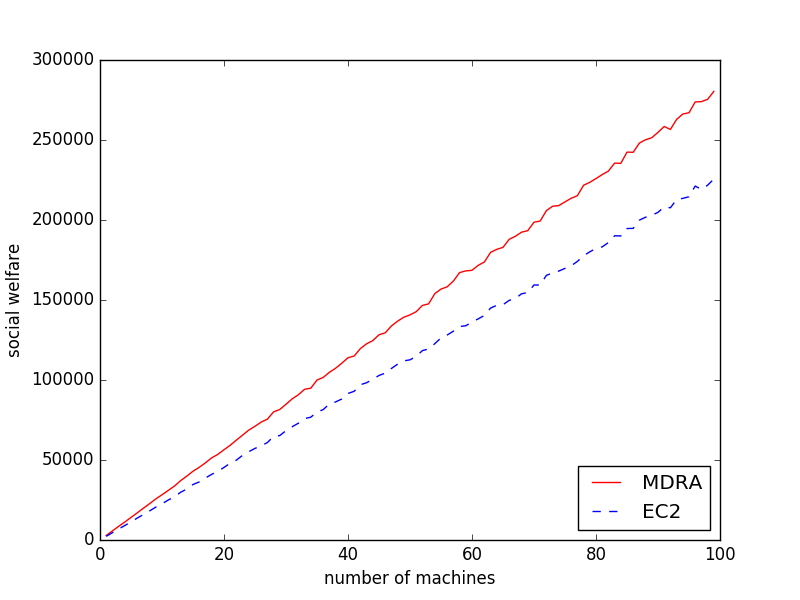
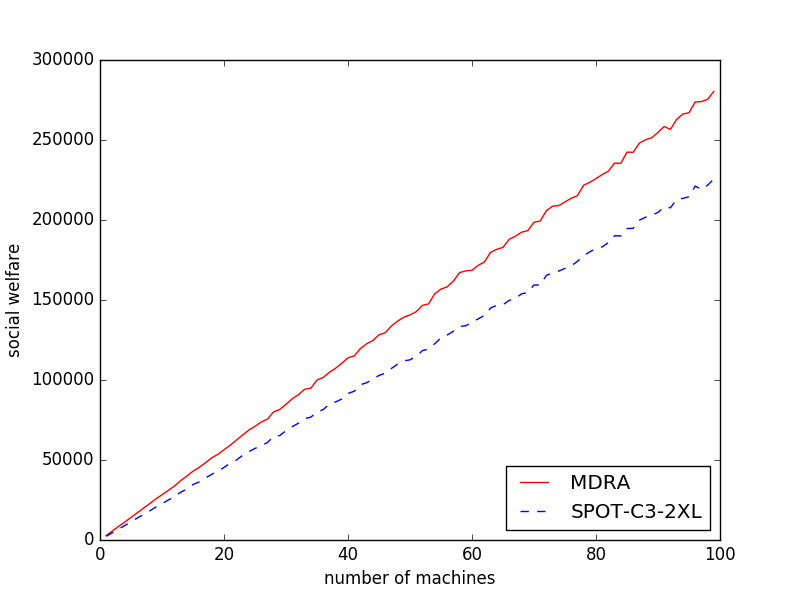
add pics

Changed region(s): [[0.7188, 0.78, 0.875, 0.87], [0.625, 0.75, 0.7188, 0.9]]

diff --git a/src/test_dscheduler.py b/src/test_dscheduler.py
@@ -628,7 +628,7 @@ def draw_ec2(num, corr):
 
     plt.clf()
     plt.plot(range(1,num), sw1, 'k-', label='MDRA', color='red')
-    plt.plot(range(1,num), sw2, 'k--', label='EC2', color='blue')
+    plt.plot(range(1,num), sw2, 'k--', label='SPOT-C3-2XL', color='blue')
     plt.xlabel('number of machines')
     plt.ylabel('social welfare')
     plt.legend(loc ='lower right')
@@ -671,6 +671,7 @@ def draw_ec2_all(num):
     plt.xlabel('number of machines')
     plt.ylabel('Ratio of Social Welfare of MDRA to EC2')
     plt.ylim(1,1.4)
+    plt.legend(loc ='lower right')
     plt.savefig("ec2_2_all.png")
 
 def compare_ca(num_machines, distribution, corr):
@@ -790,7 +791,7 @@ def compare_ca_2(num, distribution, corr):
 #    plt.legend()
     plt.savefig(distribution+"_2_"+str(num)+"_" + corr + ".png")
 
-def draw_ca(num, corr):
+def draw_ca(num, dis, corr):
     ratios = []
     sw1 = []
     sw2 = []
@@ -803,20 +804,21 @@ def draw_ca(num, corr):
             sw2.append(float(arr[1]))
 
     plt.clf()
-    plt.plot(range(1,100),sw1,'k-',label='MDRA', color='red')
-    plt.plot(range(1,100),sw2,'k--',label='EC2', color='blue')
+    plt.plot(range(1,num), sw1, 'k-', label='MDRA', color='red')
+    plt.plot(range(1,num), sw2, 'k--', label='CA-PROVISION', color='blue')
     plt.xlabel('number of machines')
     plt.ylabel('social welfare')
-    plt.legend(loc ='upper left')
-    plt.savefig("ca_1_" + str(num) + "_" + corr + ".png")
-
-    plt.clf()
-    plt.plot(np.array(range(1,100)),np.array(ratios),'k-')
-    plt.xlabel('number of machines')
-    plt.ylabel('Ratio of Social welfare of MDRPSPA to CA-PROVISION')
-    plt.ylim(1,2)
-    plt.savefig("ca_2_" + str(num)+ "_" + corr + ".png")
-    return
+    plt.legend(loc ='lower right')
+    plt.savefig(dis+"_1_"+str(num)+"_"+corr+".png")
+    
+ 
+#    plt.clf()
+#    plt.plot(np.array(range(1,100)),np.array(ratios),'k-')
+#    plt.xlabel('number of machines')
+#    plt.ylabel('Ratio of Social welfare of MDRPSPA to CA-PROVISION')
+#    plt.ylim(1,2)
+#    plt.savefig("ca_2_" + str(num)+ "_" + corr + ".png")
+#    return
 
 def draw_ca_all():
     ratios1 = []
@@ -1151,7 +1153,9 @@ if __name__ == '__main__':
 #    generate_ec2_2(10,'corr1')
 #    generate_ec2_1(10,'corr_opt')
 #    generate_ec2_2(10,'corr_opt')
-    draw_ec2(100,'corr0')
+#    draw_ec2(100,'corr0')
+#    draw_ec2(100,'corr1')
+#    draw_ec2(100,'corr_opt')
 #    draw_ec2_all(100)
 
 # ca
@@ -1162,7 +1166,10 @@ if __name__ == '__main__':
 #    compare_ca_1(100,'ca','corr_opt')
 #    compare_ca_2(10,'ca','corr_opt')
 #    draw_ca(100,'corr_opt')
-    draw_ca_all()
+#    draw_ca(100,'corr0')
+#    draw_ca(100,'corr1')
+    draw_ca(100,'ca','corr_opt')
+#    draw_ca_all()
 
 # quality
 #    generate_quality_data(100,'uniform','corr0')
